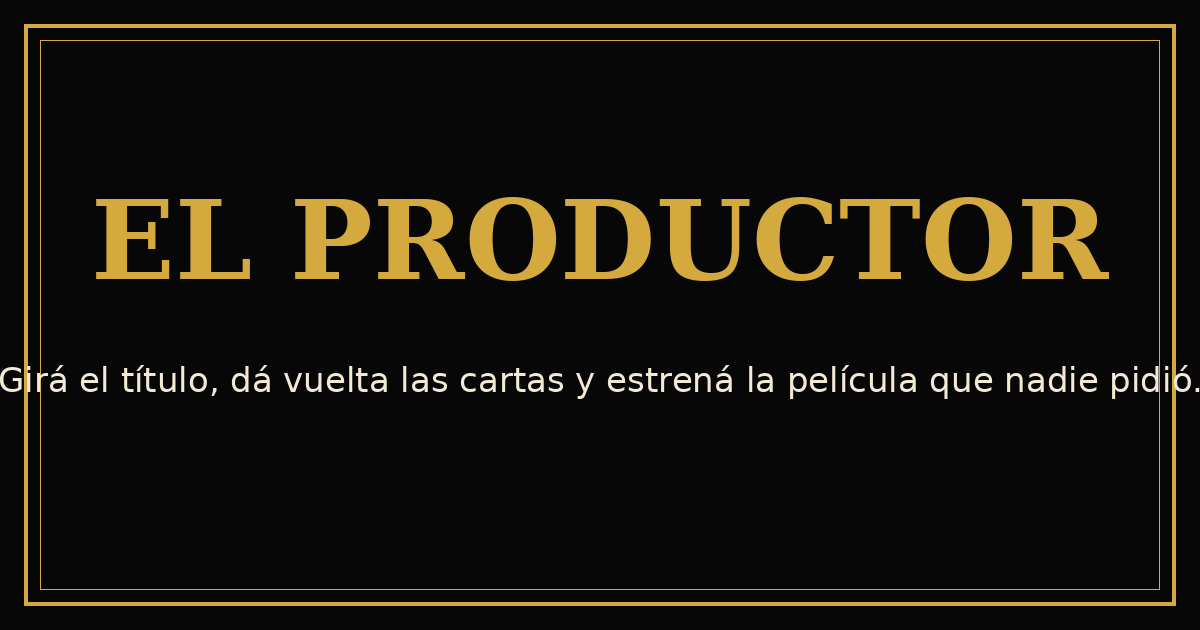
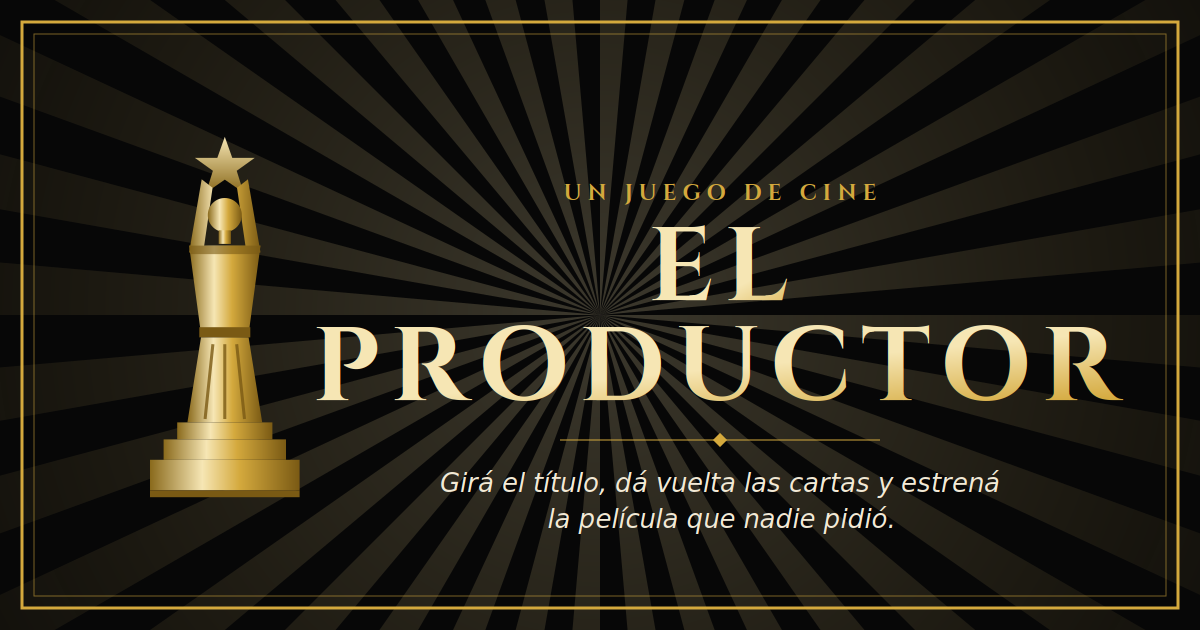
Add files via upload

diff --git a/src/App.jsx b/src/App.jsx
@@ -271,11 +271,22 @@ function BotonNegro({ children, onClick, className = "" }) {
 }
 
 function Estatuilla({ h = 110, color, cls = "" }) {
-  const id = "est" + h;
+  const id = "est" + h + (color ? "r" : "");
+  const c1 = color || "#F6E6B4", c2 = color || "#D4A93D", c3 = color ? color : "#7A5A14", oscuro = color ? "rgba(0,0,0,.35)" : "#7A5A14";
   return (
     <svg className={cls} width={h * 0.4} height={h} viewBox="0 0 44 110" fill="none" style={{ flexShrink: 0 }}>
-      <defs><linearGradient id={id} x1="0" y1="0" x2="1" y2="1"><stop offset="0" stopColor={color || ORO_C} /><stop offset=".6" stopColor={color || ORO} /><stop offset="1" stopColor={color ? color : ORO_O} /></linearGradient></defs>
-      <circle cx="22" cy="12" r="8" fill={`url(#${id})`} /><path d="M14 24 H30 L34 58 H10 Z" fill={`url(#${id})`} /><rect x="17" y="58" width="10" height="22" fill={`url(#${id})`} /><path d="M8 80 H36 V86 H32 V96 H12 V86 H8 Z" fill={`url(#${id})`} /><rect x="4" y="96" width="36" height="8" fill={`url(#${id})`} />
+      <defs>
+        <linearGradient id={id} x1="0" y1="0" x2="1" y2="0"><stop offset="0" stopColor={c3} /><stop offset=".35" stopColor={c1} /><stop offset=".6" stopColor={c2} /><stop offset="1" stopColor={c3} /></linearGradient>
+        <linearGradient id={id + "p"} x1="0" y1="0" x2="0" y2="1"><stop offset="0" stopColor={c1} /><stop offset="1" stopColor={c3} /></linearGradient>
+      </defs>
+      <path d="M22 2 L24.2 8.2 L30.8 8.2 L25.5 12 L27.5 18.4 L22 14.6 L16.5 18.4 L18.5 12 L13.2 8.2 L19.8 8.2 Z" fill={`url(#${id}p)`} />
+      <path d="M15.2 14.5 L11.5 36 L15.5 37 L18.4 17 Z M28.8 14.5 L32.5 36 L28.5 37 L25.6 17 Z" fill={`url(#${id})`} />
+      <circle cx="22" cy="25" r="5" fill={`url(#${id})`} /><rect x="20.2" y="29.5" width="3.6" height="4" fill={`url(#${id})`} />
+      <path d="M11.5 34 H32.5 L29 60 H15 Z" fill={`url(#${id})`} /><path d="M11.5 34 H32.5 L32 36.5 H12 Z" fill={oscuro} opacity=".6" />
+      <rect x="14.5" y="58" width="15" height="3" fill={oscuro} />
+      <path d="M15 61 H29 L33 86 H11 Z" fill={`url(#${id})`} />
+      <g stroke={oscuro} strokeWidth=".9" opacity=".8"><line x1="18.5" y1="63" x2="16.2" y2="85" /><line x1="22" y1="63" x2="22" y2="85" /><line x1="25.5" y1="63" x2="27.8" y2="85" /></g>
+      <rect x="8" y="86" width="28" height="5" fill={`url(#${id})`} /><rect x="4" y="91" width="36" height="6" fill={`url(#${id})`} /><rect x="0" y="97" width="44" height="9" fill={`url(#${id})`} /><rect x="0" y="106" width="44" height="2" fill={oscuro} />
     </svg>
   );
 }
@@ -358,7 +369,7 @@ function Carta({ nombre, valor, sub, Icono, IconoFrente, abierta, puede, tenso, 
           <div className="flex items-center justify-center" style={{ width: 40, height: 40, border: `1px solid ${ORO}`, boxShadow: `inset 0 0 0 2px ${MARFIL}, inset 0 0 0 3px ${ORO}66`, flexShrink: 0 }}><IF size={20} color={ORO_O} strokeWidth={1.5} /></div>
           <div>
             <div style={{ ...versal(9), color: ORO_O }}>{nombre}</div>
-            <div style={{ fontFamily: SERIF, fontSize: 16, lineHeight: 1.25, fontWeight: 600 }}>{valor}</div>
+            <div style={{ fontFamily: UI, fontSize: 17, lineHeight: 1.25, fontWeight: 500 }}>{valor}</div>
             {sub && <div style={{ fontFamily: UI, fontSize: 12, color: "#5A5A5A", marginTop: 2, fontStyle: "italic" }}>{sub}</div>}
           </div>
         </div>
@@ -439,7 +450,7 @@ function dibujarPoster(cv, { titulo, ficha, resultado, conResultado = true }) {
   // título: cada palabra ocupa exactamente el ancho, como en los pósters de acción
   const [s, a] = titulo.toUpperCase().split(" ");
   const fs1 = fitFont(ctx, s, D, ancho, 320), fs2 = fitFont(ctx, a, D, ancho, 320);
-  let y = H * 0.50;
+  let y = H * 0.54;
   ctx.shadowColor = "rgba(0,0,0,.55)"; ctx.shadowBlur = 36; ctx.shadowOffsetY = 14;
   ctx.fillStyle = pal.ink; ctx.font = D.replace("SIZE", fs1); ctx.fillText(s, W / 2, y);
   y += fs2 * 0.92; ctx.fillStyle = pal.acc; ctx.font = D.replace("SIZE", fs2); ctx.fillText(a, W / 2, y);
@@ -450,7 +461,7 @@ function dibujarPoster(cv, { titulo, ficha, resultado, conResultado = true }) {
   y += 14; ctx.fillStyle = pal.ink; textoFit(ctx, `UNA PELÍCULA DE ${ficha.director.n.toUpperCase()}`, R, ancho, W / 2, y, 28);
   // bloque de créditos, tres líneas chicas
   ctx.globalAlpha = 0.8; ctx.fillStyle = pal.ink;
-  [ficha.protagonista, ficha.situacion.texto, `Presupuesto ${ficha.presupuesto.nombre}`].forEach((t, i) => textoFit(ctx, t.toUpperCase(), D, ancho * 0.8, W / 2, H - 196 + i * 24, 18));
+  [ficha.protagonista, ficha.situacion.texto, `Presupuesto ${ficha.presupuesto.nombre}`].forEach((t, i) => textoFit(ctx, t.toUpperCase(), R, ancho * 0.85, W / 2, H - 226 + i * 32, 22));
   ctx.globalAlpha = 1;
   if (conResultado) {
     ctx.fillStyle = "rgba(0,0,0,.6)"; ctx.fillRect(0, H - 118, W, 118);
@@ -459,7 +470,7 @@ function dibujarPoster(cv, { titulo, ficha, resultado, conResultado = true }) {
     textoFit(ctx, `${Esp(resultado.espectadores).toUpperCase()} DE ESPECTADORES`, D, ancho, W / 2, H - 70, 40);
     ctx.fillStyle = pal.ink; textoFit(ctx, `CRÍTICA ${resultado.critica.toFixed(1)}  ·  PÚBLICO ${resultado.publico.toFixed(1)}  ·  ${gano}`, R, ancho, W / 2, H - 28, 24);
   } else {
-    ctx.fillStyle = pal.ink; ctx.globalAlpha = 0.85; textoFit(ctx, "PRÓXIMAMENTE", D, ancho, W / 2, H - 60, 44); ctx.globalAlpha = 1;
+    ctx.fillStyle = pal.acc; ctx.fillRect(W / 2 - 60, H - 112, 120, 3); ctx.fillStyle = pal.ink; textoFit(ctx, "PRÓXIMAMENTE", D, ancho, W / 2, H - 58, 40);
   }
   // marco dorado y marca del juego
   ctx.strokeStyle = ORO; ctx.lineWidth = 3; ctx.strokeRect(14, 14, W - 28, H - 28); ctx.lineWidth = 1; ctx.strokeRect(24, 24, W - 48, H - 48);
